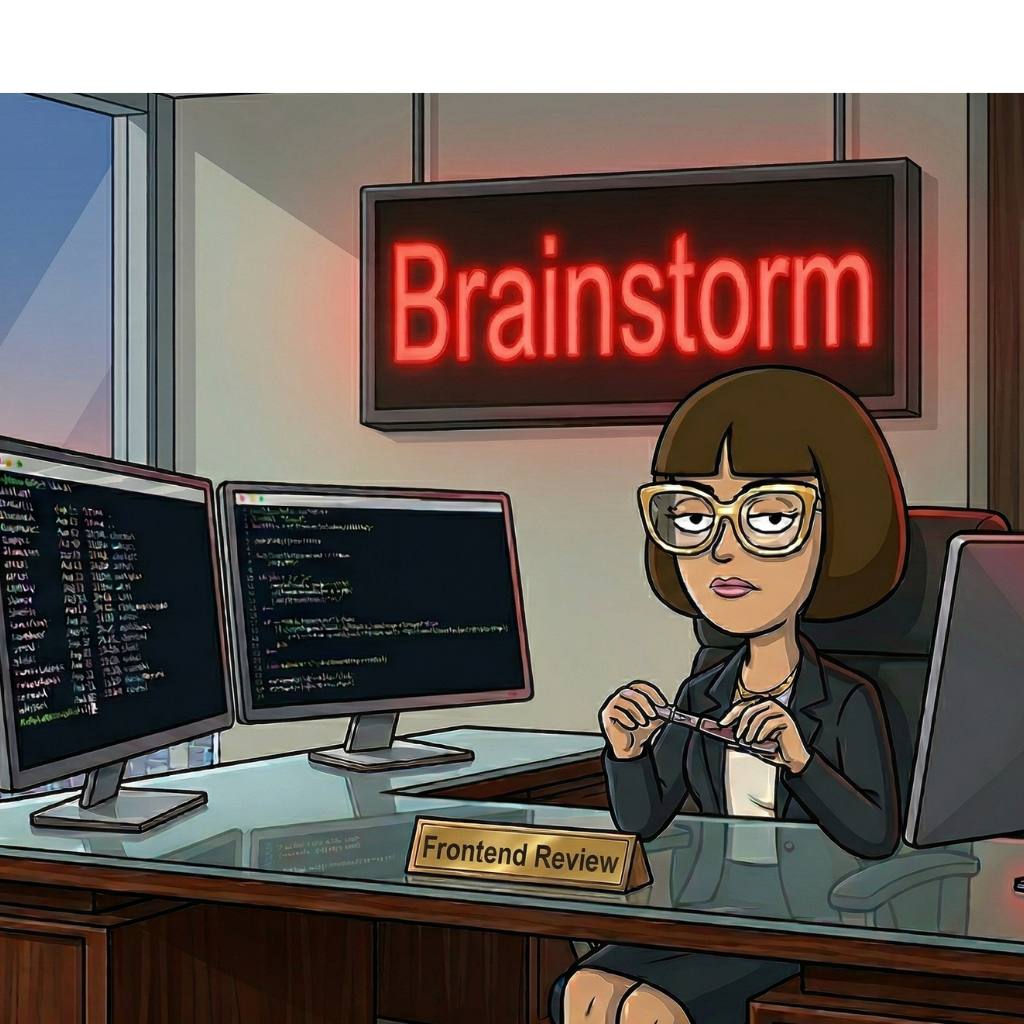
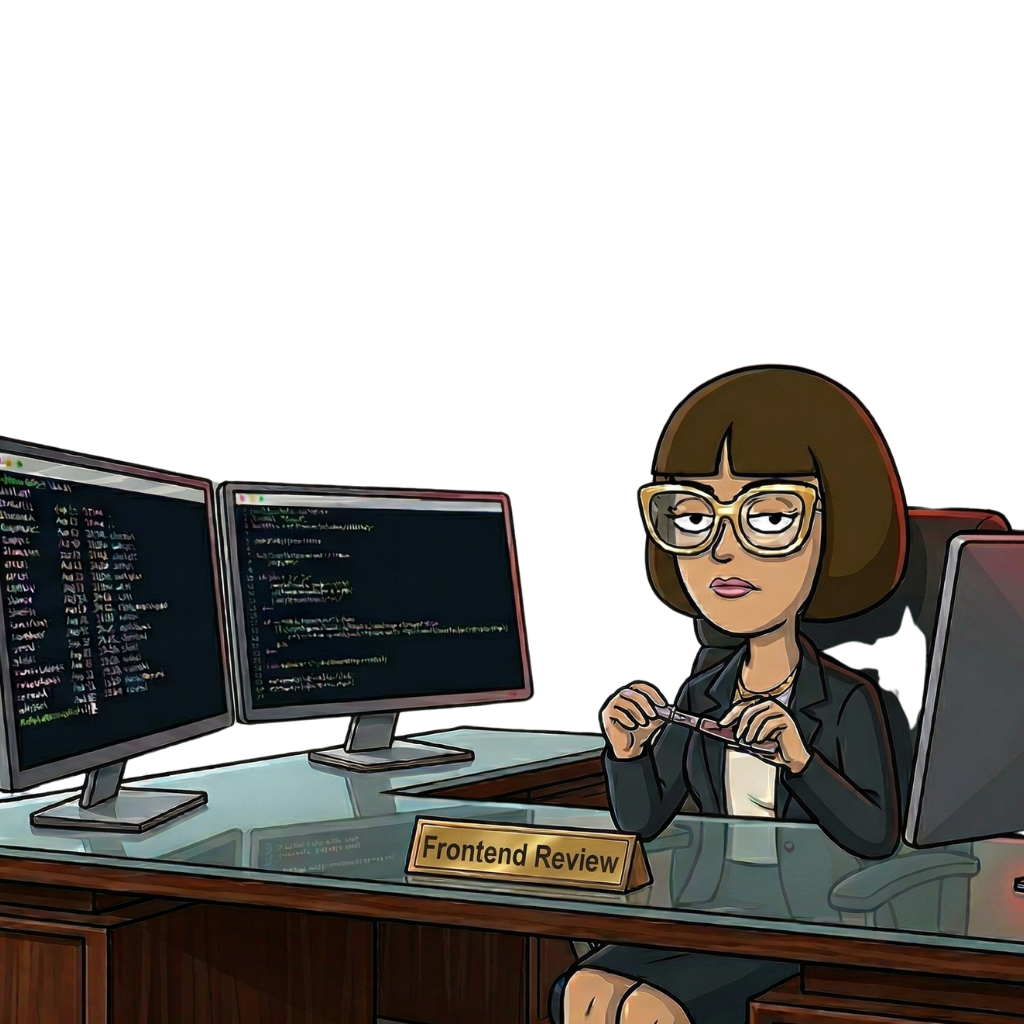
chore: optimize frontend review PNG, update project file
- PNG optimized (2.3MB → 1.4MB)
- Project file updated: waiting on Shifra, funnel updated to Full Suite

diff --git a/CYNICALSALLY-LITE.md b/CYNICALSALLY-LITE.md
@@ -1,7 +1,7 @@
 # CYNICALSALLY-LITE — Project File
 
 > Source of truth voor Sally Lite.
-> Laatste update: 2026-03-14
+> Laatste update: 2026-03-21
 
 ---
 
@@ -9,7 +9,7 @@
 
 Sally Lite is een **thin client** die developers met één klik deployen op Render. Het is een gratis proeverij van Sally's code reviews. Bevat GEEN AI logica, GEEN prompts — puur een interface die code doorstuurt naar de CynicalSally backend.
 
-**Funnel:** Lite (gratis, 3/dag) → CLI Free (30 QR + 3 FT/maand) → SuperClub CLI (€14.99/mo)
+**Funnel:** Lite (gratis, 3/dag) → Full Suite CLI (€175.63/yr FF of €19.98/mo)
 
 ---
 
@@ -67,10 +67,17 @@ Environment variable: `SALLY_API_URL` (default: `https://cynicalsally-web.onrend
 
 ## VOLGENDE STAPPEN
 
-1. Render project aanmaken → Lite repo koppelen → Blueprint deploy
-2. Claude API credits → backend mock data → echte reviews
-3. End-to-end test: web UI + CLI
-4. Render marketing materiaal voorbereiden
+1. Wachten op Shifra — zij bepaalt hoe Sally Lite er visueel uitziet
+2. Render project aanmaken → Lite repo koppelen → Blueprint deploy
+3. Claude API credits → backend mock data → echte reviews
+4. End-to-end test: web UI + CLI
+5. Render marketing materiaal voorbereiden
+
+## CONTEXT
+
+- 2026-03-21: Repo is prima, wachten op Shifra voor haar visie
+- Full Suite pagina (cynicalsally-render) is live met 6 CLI tools + SuperClub included
+- SuperClub is nu puur web + Chrome Extension (paars), CLI is Full Suite (amber)
 
 ---
 
